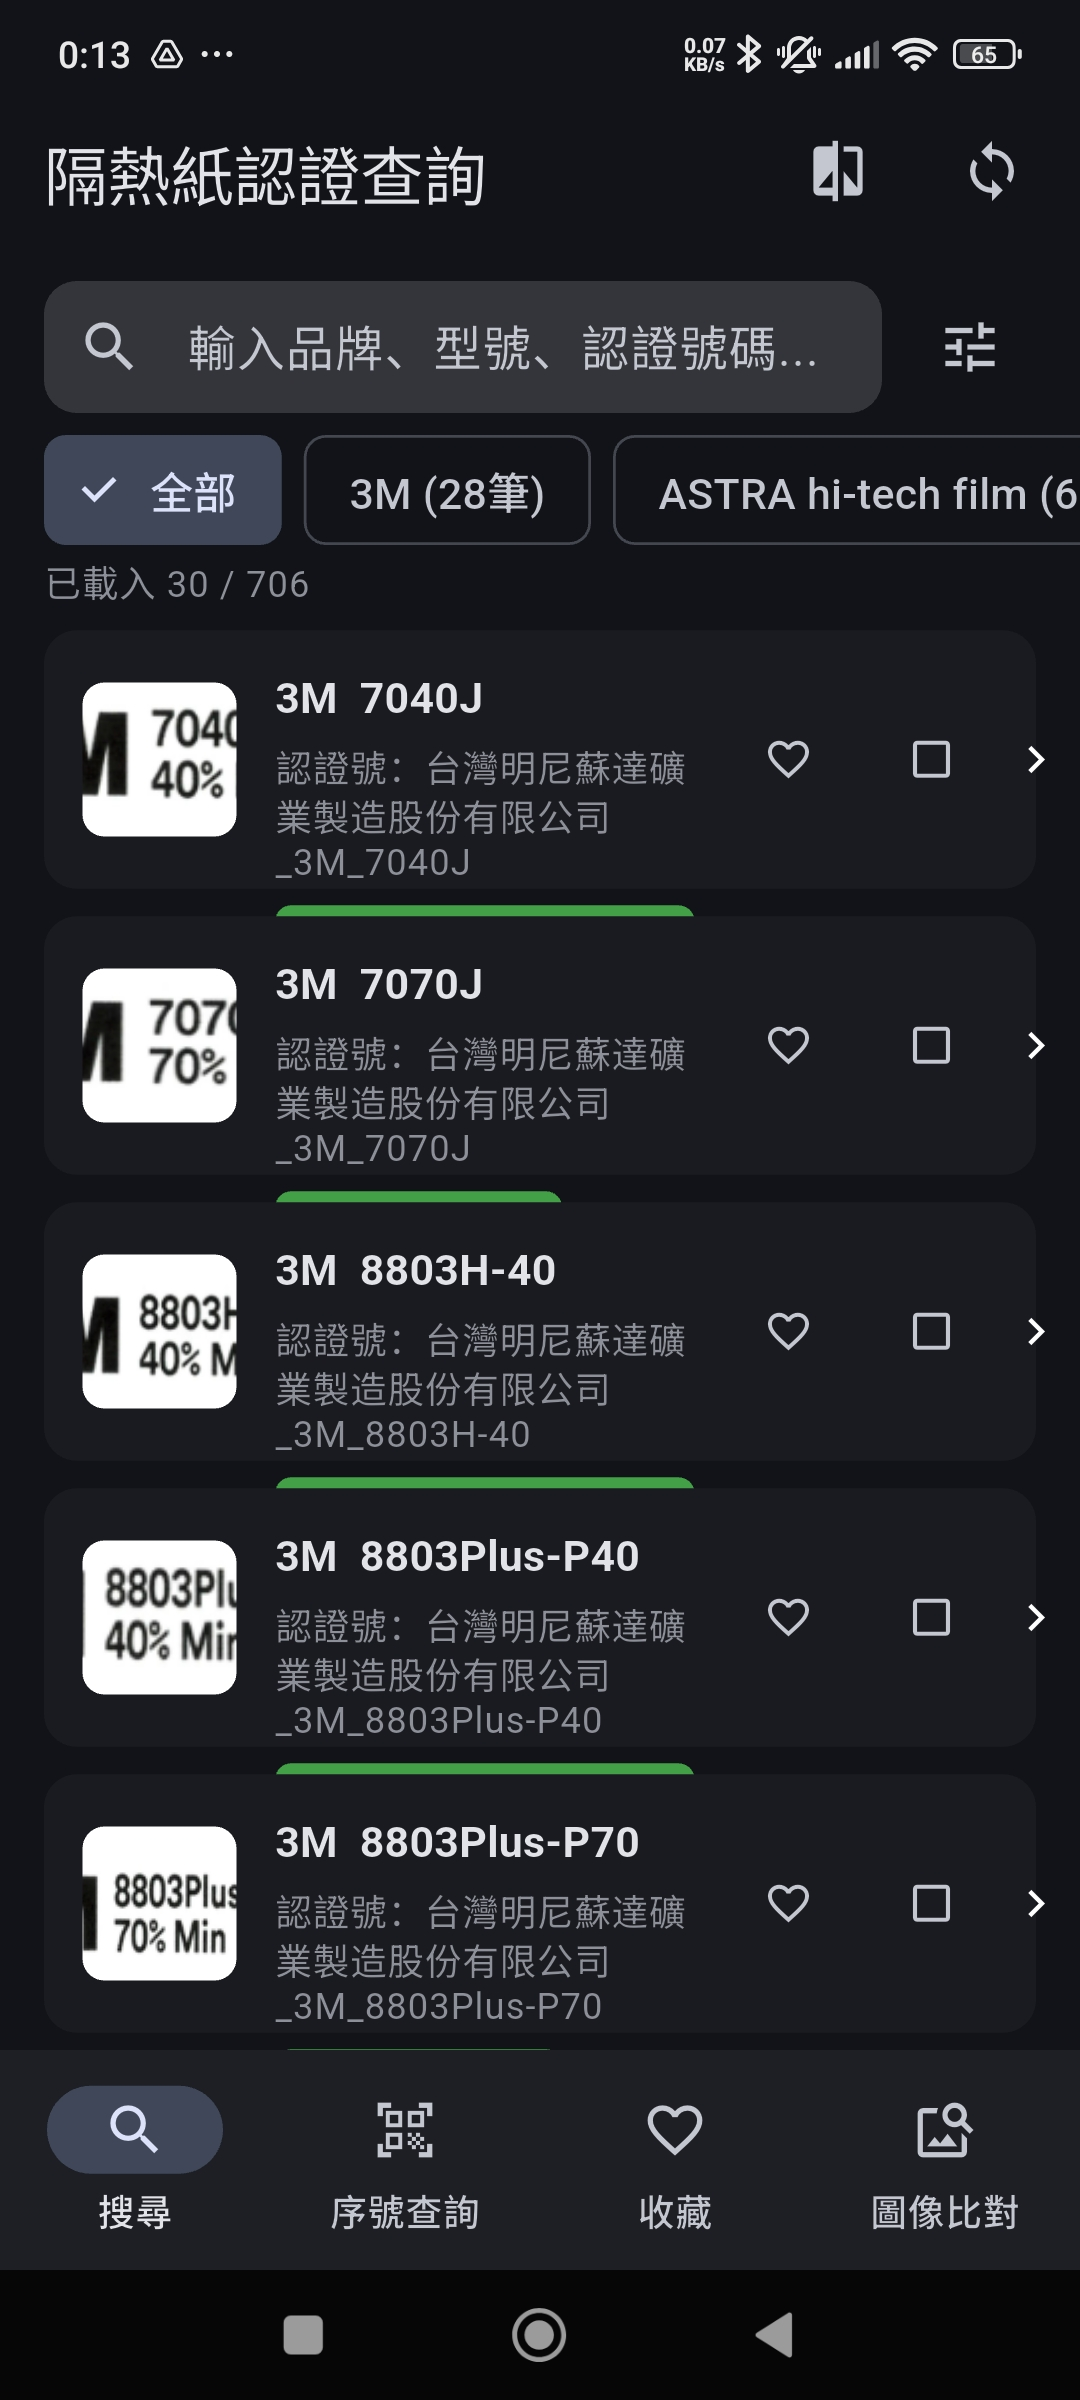
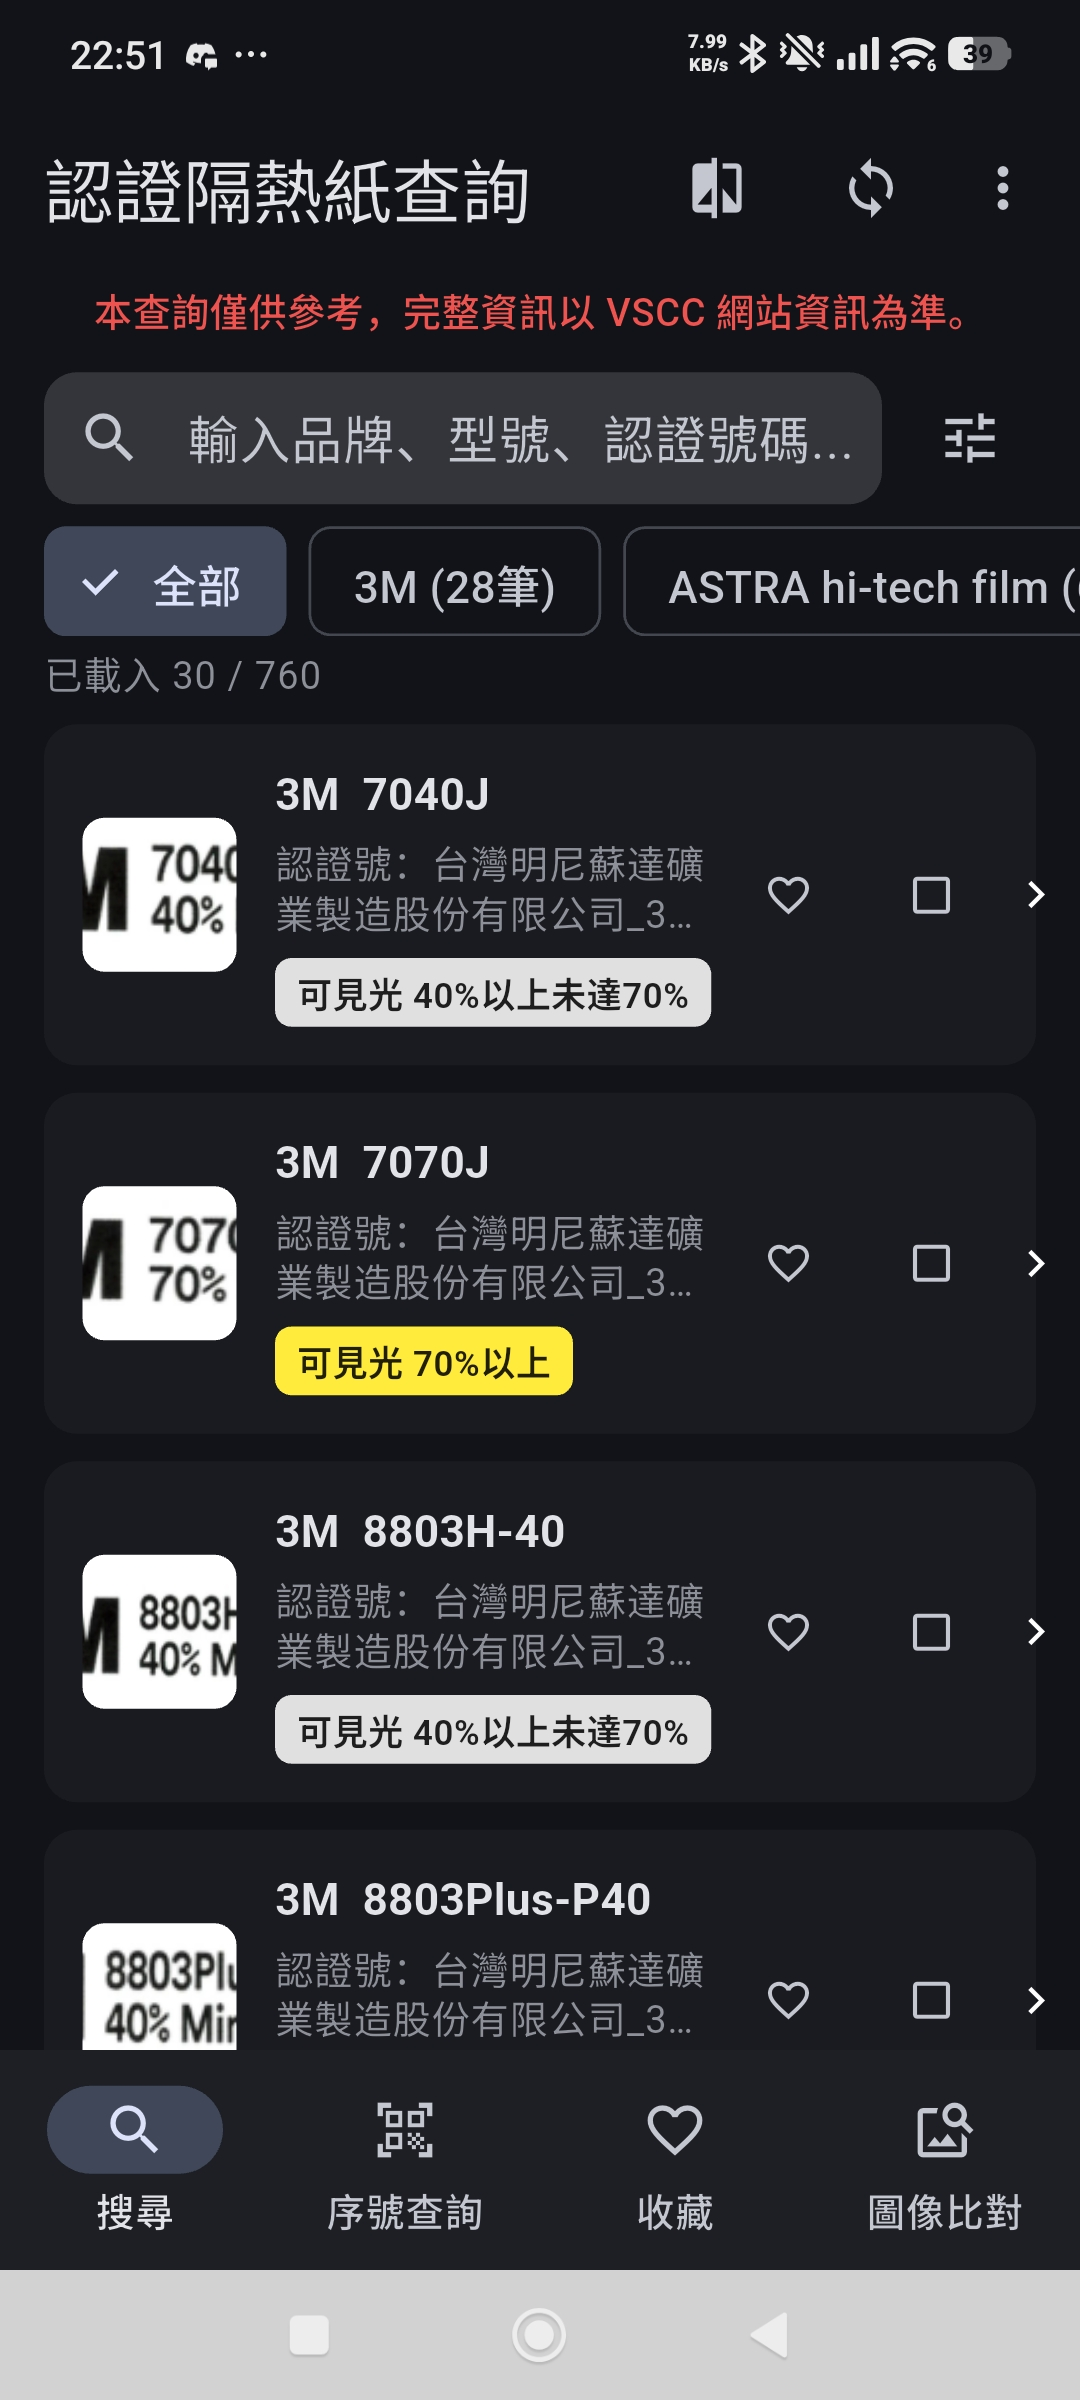
chore(store): APP 更名為「認證隔熱紙查詢」，更新商店文案與截圖
- listing.md / play_console_checklist.md：商店名稱由「VSCC 隔熱紙查詢 (非官方)」改為「認證隔熱紙查詢」
- widget_test.dart：測試預期標題同步更名
- 更新首頁、篩選廠牌截圖（新標題與可見光級距標示）
- 新增合格序號查詢、序號詳細資料截圖

diff --git a/Downloads/Insulating-paper/tint_app/test/widget_test.dart b/Downloads/Insulating-paper/tint_app/test/widget_test.dart
@@ -21,6 +21,6 @@ void main() {
     await tester.pumpAndSettle();
 
     // Verify that the app title is displayed.
-    expect(find.text('隔熱紙認證查詢'), findsWidgets);
+    expect(find.text('認證隔熱紙查詢'), findsWidgets);
   });
 }

diff --git a/play_store_assets/play_console_checklist.md b/play_store_assets/play_console_checklist.md
@@ -38,7 +38,7 @@
 
 | 欄位 | 你要填 |
 |---|---|
-| 應用程式名稱 | `VSCC 隔熱紙查詢 (非官方)` |
+| 應用程式名稱 | `認證隔熱紙查詢` |
 | 預設語言 | **繁體中文（台灣）– zh-TW** |
 | 應用程式類型 | **應用程式**（不是遊戲） |
 | 免費或付費 | **免費** |
@@ -123,7 +123,7 @@ https://jefflgk.github.io/Insulating-paper/privacy.html
 
 | 欄位 | 內容 | 字數 |
 |---|---|---|
-| 應用程式名稱 | `VSCC 隔熱紙查詢 (非官方)` | ≤ 30 |
+| 應用程式名稱 | `認證隔熱紙查詢` | ≤ 30 |
 | 簡短說明 | 從 listing.md 複製 | ≤ 80 |
 | 完整說明 | 從 listing.md 複製 | ≤ 4000 |
 
@@ -195,7 +195,7 @@ https://jefflgk.github.io/Insulating-paper/privacy.html
 
 | 退件原因 | 避開方法 |
 |---|---|
-| 應用程式名稱使用第三方商標 | ✅ 已加「(非官方)」 |
+| 應用程式名稱使用第三方商標 | ✅ 名稱已改為「認證隔熱紙查詢」，不含 VSCC 商標 |
 | 隱私權政策連結失效 | ✅ GitHub Pages 已上線 |
 | 資料安全表單與實際行為不符 | ✅ 無蒐集、HTTPS 傳輸已如實填寫 |
 | APP 無法啟動／閃退 | 先用內部測試充分測過 |

diff --git a/play_store_assets/listing.md b/play_store_assets/listing.md
@@ -3,11 +3,11 @@
 ## APP 名稱
 **Play Store 商品頁標題**（最多 30 字）：
 ```
-VSCC 隔熱紙查詢 (非官方)
+認證隔熱紙查詢
 ```
 **手機桌面 icon 下方**（Android 已設定）：
 ```
-VSCC 隔熱紙查詢
+認證隔熱紙查詢
 ```
 
 ## 短描述（最多 80 字）
@@ -21,7 +21,7 @@ VSCC 隔熱紙查詢
 ```
 ※ 本 APP 為第三方查詢工具，非 VSCC（車輛安全審驗中心）官方出品。
 
-【VSCC 隔熱紙查詢】是一款協助車輛檢驗人員、驗車廠、監理相關從業者快速核對隔熱紙認證資料的現場工具。資料皆取自 VSCC 公開資料庫，可離線使用。
+【認證隔熱紙查詢】是一款協助車輛檢驗人員、驗車廠、監理相關從業者快速核對隔熱紙認證資料的現場工具。資料皆取自 VSCC 公開資料庫，可離線使用。
 
 ▎為什麼需要這個 APP？
 台灣車輛隔熱紙市場常見「品名不符」、「認證標籤難辨識」、「序號查不到原廠資料」等問題。本 APP 直接讀取 VSCC 官方公開的認證資料，讓你在現場就能立刻確認產品真偽與規格。
